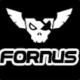
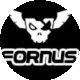
story with alpha channel

diff --git a/performance/resize_and_cut_image.py b/performance/resize_and_cut_image.py
@@ -29,21 +29,18 @@ def show_img(img, title):
     cv2.destroyAllWindows()
     return True
     
-def resize_image(file_name, new_height, new_width):
+def resize_cut_and_alpha_image(file_name, new_height, new_width):
     subDir = "RESIZED"
     image = cv2.imread(file_name)
     resized = cv2.resize(image, (new_width, new_height))
     #cut circle here
     b_channel, g_channel, r_channel = cv2.split(resized)
-    alpha_channel = np.zeros((new_width, new_height,1), dtype='uint8')      #add alpha channel
-    img_BGRA = cv2.merge((b_channel, g_channel, r_channel, alpha_channel))
+    alpha_channel = np.zeros((new_width, new_height,1), dtype='uint8')      #add alpha channel; in ones multiply e.g. *100
     cv2.ellipse(alpha_channel, (int(new_width/2), int(new_height/2)), (int(new_width/2), int(new_height/2)), 0, 0 , 360, (255), -1)     #draw circle
-       
+    img_BGRA = cv2.merge((b_channel, g_channel, r_channel, alpha_channel))   
     maskedImg = cv2.bitwise_and(img_BGRA, img_BGRA, mask=alpha_channel)
-    print(maskedImg[100][100])
     #show_img(alpha_channel, "alpha image")
-    show_img(maskedImg, "masked")
-    
+    #show_img(maskedImg, "masked")
     path = make_dir(subDir)
     path = os.path.join(path, file_name)
     cv2.imwrite(path, maskedImg)
@@ -55,13 +52,14 @@ def read_alpha_channel_image(file_name):
     channels = cv2.split(some)      #split channels
     return some
     
+    
 if __name__ == "__main__":
     args = sys.argv[1:]
     path = script_path()
     #file = args[0]
-    file = "berk.png"
-    status = resize_image(file, 280, 280)
-    #files = get_files()
-    #for file in files:
-    #    status = resize_image(file, 80, 80)
+    #file = "berk.png"
+    #status = resize_cut_and_alpha_image(file, 80, 80)
+    files = get_files()
+    for file in files:
+        status = resize_cut_and_alpha_image(file, 80, 80)
     print("finished...")

diff --git a/performance/story.py b/performance/story.py
@@ -96,7 +96,7 @@ def create_random(space, true_center, names=[]):
     for key, name in enumerate(names):
         center=(random.randrange(150, 1266), random.randrange(200, 668))
         center = true_center #(660, 400)
-        face_img = random.choice(["fizzix.png", "forch.png", "berk.png", "Fortyk.png", "fojteqkloc.png", "", ""])
+        face_img = random.choice(["fizzix.png", "forch.png", "berk.png", "Fortyk.png", "fojteqkloc.png", ""])
         human = anime.human(name, "male", face_img)
         human.setCenter(space, center)
         human.makePart(space)
